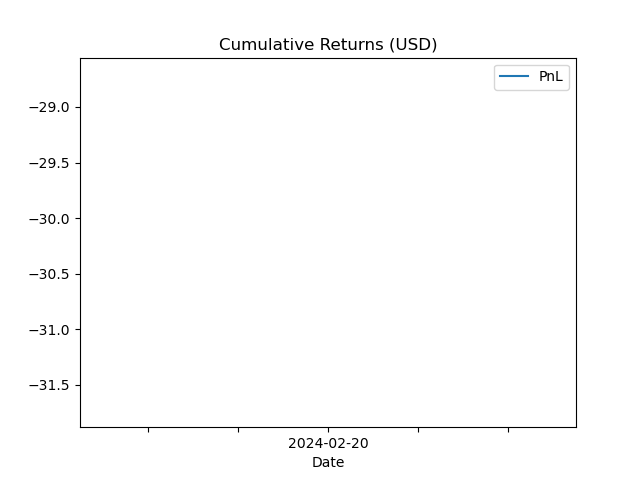
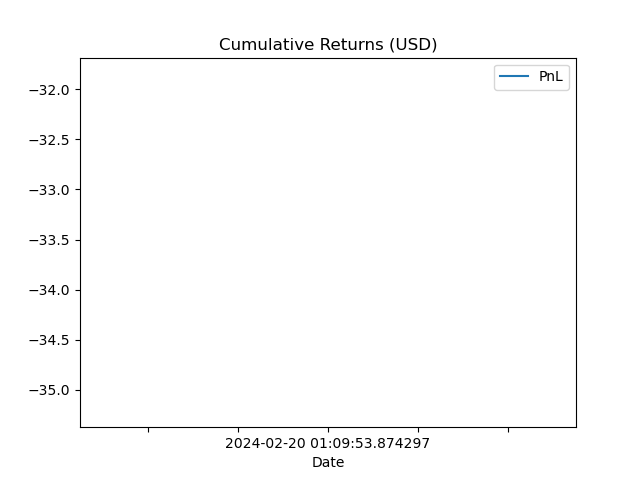
Update performance

diff --git a/Crypto/Volatility/short_volatility/update_performance.py b/Crypto/Volatility/short_volatility/update_performance.py
@@ -23,8 +23,8 @@ for dets in positions:
     gamma+=dets['gamma']
 
 
-shortvolpnl = pd.DataFrame([pnl],index = [pd.datetime.today().strftime('%Y-%m-%d')],columns = ['daily_pnl'])
-portfolio_greeks = pd.DataFrame(np.array([delta,vega,theta,gamma]).reshape(-1,4),index = [pd.datetime.today().strftime('%Y-%m-%d')],columns = ['delta','vega','theta','gamma'])
+shortvolpnl = pd.DataFrame([pnl],index = [pd.datetime.today()],columns = ['daily_pnl'])
+portfolio_greeks = pd.DataFrame(np.array([delta,vega,theta,gamma]).reshape(-1,4),index = [pd.datetime.today()],columns = ['delta','vega','theta','gamma'])
 
 perf_path =os.path.join(os.getcwd(),'performance_analytics\\perf_analytics.csv') 
 greeks_path = os.path.join(os.getcwd(),'performance_analytics\\portfolio_greeks.csv') 
